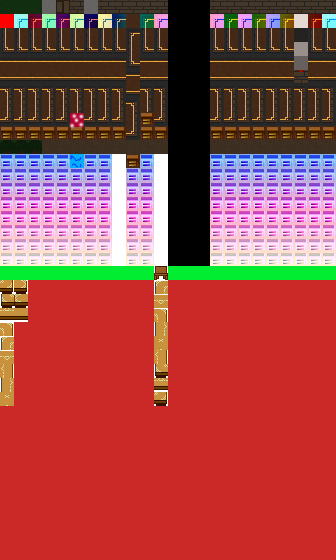
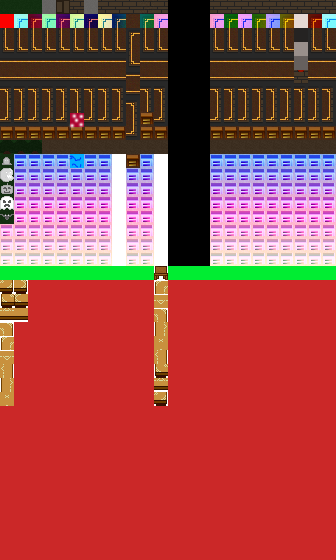
Statues added to levelGardenLeft as clues for upcoming basement puzzle

Changed region(s): [[0.0, 0.2732, 0.0595, 0.425]]

diff --git a/js/World.js b/js/World.js
@@ -134,9 +134,9 @@ var levelKitchen =
 //		 10, 10, 10, 10, 10, 10, 10, 0, 10, 10, 10, 10, 10, 10, 10, 10,
 //	];
 
-var levelGardenLeft =
+var levelGardenLeft = 
 [
-10, 10, 10, 10, 10, 10, 10, 10, 10, 10, 10, 10, 10, 10, 10, 10, 10, 0, 0, 0, 0, 0, 0, 0, 0, 0, 0, 0, 0, 0, 0, 10, 10, 0, 0, 0, 0, 0, 0, 0, 0, 0, 0, 0, 0, 0, 0, 10, 10, 0, 0, 0, 0, 0, 0, 0, 0, 0, 0, 0, 0, 0, 0, 0, 10, 0, 0, 0, 0, 0, 0, 0, 0, 0, 0, 0, 10, 10, 10, 10, 10, 0, 0, 0, 0, 0, 0, 0, 0, 0, 0, 0, 10, 300, 0, 0, 10, 0, 0, 0, 0, 0, 0, 0, 0, 0, 0, 0, 10, 10, 10, 10, 10, 0, 0, 0, 0, 0, 0, 0, 10, 10, 10, 10, 10, 10, 10, 10, 10, 0, 0, 0, 0, 0, 0, 0, 10, 1, 0, 0, 0, 0, 0, 0, 10, 10, 10, 10, 10, 10, 10, 200, 10, 10, 10, 10, 10, 10, 10, 10
+10,10,10,10,10,10,10,10,10,10,10,10,10,10,10,10,10,0,0,0,0,0,0,0,0,0,0,0,0,0,0,10,10,0,0,0,0,0,0,0,0,0,0,0,0,0,0,10,10,0,13,0,12,0,15,0,11,0,14,0,0,0,0,0,10,0,0,0,0,0,0,0,0,0,0,0,10,10,10,10,10,0,0,0,0,0,0,0,0,0,0,0,10,300,0,0,10,0,0,0,0,0,0,0,0,0,0,0,10,10,10,10,10,0,0,0,0,0,0,0,10,10,10,10,10,10,10,10,10,0,0,0,0,0,0,0,10,1,0,0,0,0,0,0,10,10,10,10,10,10,10,200,10,10,10,10,10,10,10,10
 ];
 
 //var levelGardenMiddle =
